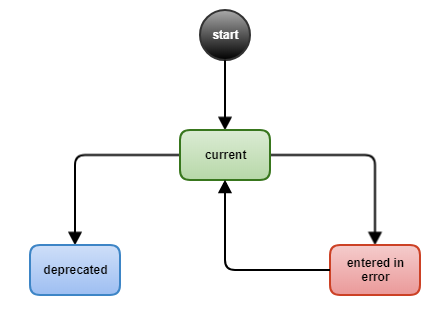
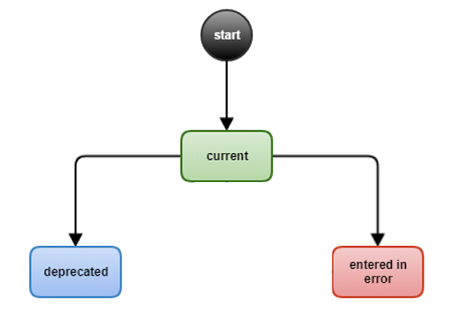
Updated Pointer Lifecycle page

diff --git a/pages/pointers/pointer_lifecycle.md b/pages/pointers/pointer_lifecycle.md
@@ -9,42 +9,18 @@ summary: NRLS Pointer Lifecycle
 
 {% include important.html content="This site is under active development by NHS Digital and is intended to provide all the technical resources you need to successfully develop the NRLS API. This project is being developed using an agile methodology so iterative updates to content will be added on a regular basis." %}
 
-{% include warning.html content="
-The current version of the NRLS API does not give Providers the ability to update the properties of an existing Pointer. 
-The only property that can be modified is the status and that is done in a very specific way only allowing a Provider to replace one 
-pointer with another [Managing Pointers](pointer_maintenance.html#managing-pointers-to-static-content).
-<br/>
-This means that a number of scenarios outlined below around updating a Pointer can not yet be achieved though the NRLS intends to support these features in a future release. 
-<br/>
-Specifically the NRLS API does not currently support- <br/>
-
-- The following status property transitions:<br/>
-
-	&emsp; o **current** to **entered-in-error**<br/>
-	&emsp; o **entered-in-error** to **current**<br/>
-	&emsp; o **current** to **superseded** where the current Pointer is not being replaced.<br/>
-	
-- Modification of other properties<br/>
-" %}
-
-
 ## Pointer Lifecycle ##
 
-A Pointer is a reference to some content. From the perspective of NRLS that content is held on a remote system. 
-It has its own lifecycle that is managed by a third-party (the Record owner). The state of the Pointer should reflect the 
-state of the referenced content so that Consumers are able to make informed decisions around whether or not a Pointer is worth 
-following or given the choice of more than one Pointer which is the most appropriate to follow.
+A Pointer is a reference to some content. From the perspective of NRLS that content is held on a remote system. It has its own lifecycle that is managed by a third-party (the Record owner). The Pointer Lifecycle as described by NRL defines the statuses and permitted transitions between those statuses for the pointer. The statuses and transitions ensure that only the appropriate pointers are shown to Consumers. 
 
 ## Pointer Status ##
 
-The Pointer has the concept of a status. It can have one of three possible values - 
-- Current - The status provide a means for a Consumer to understand whether the Pointer references the “current” Record. The definition of “current” is under the control of the Provider but a Consumer should be confident that by selecting the latest Pointer they will be presented with what the Provider considers to be the most appropriate for Consumers to use. 
-- Superseded – This is an overloaded term in NRLS. It can have one of two meanings:
-	1. Indicates that this Pointer has been replaced by another. Consumers should be aware that there is another 
-	Pointer referencing a more [current content](pointer_maintenance.html#managing-pointers-to-static-content).
-	2. Indicates that this Pointer has been deprecated but has not been replaced by another DocumentReference. 
-	There is no newer Pointer or content that can be retrieved but the use of this Pointer and its content is discouraged. See [Status transition](#pointer-status-transition-worked-examples) for more information.
-- Entered-in-error – Indicates that the Pointer should not really have been entered into the NRLS however in keeping with the principle of deleting only by exception [link to principles](overview_principles.html) this status allows a Provider to mark a Pointer as erroneous without needing to delete it.
+The Pointer has the concept of a status. It can have one of three possible values: 
+- "current" - Indicates that the Pointer references a clinically relevant record. The definition of “current” is under the control of the Provider but a Consumer should be confident that by selecting the Pointer they will be presented with a document or record that the Provider considers to be appropriate for Consumers to use.
+- "superseded" – Indicates that this Pointer has been replaced by another. This could be a Pointer with updated meta-data or an updated reference to a document. Note that this represents the status of the pointer and does not necessarily indicate a previous version of a document.  
+- "entered-in-error" – Indicates that the Pointer should not have been entered into the NRL as it is not valid. This could be for a number of reasons, including errors on either the pointer meta-data or the document itself. This status allows a Provider to mark a Pointer as erroneous without needing to delete it.
+
+Only pointers with the status of “current” are made available to Consumers. The statuses “superseded” and “entered-in-error” are in use in the Pointer Lifecycle for pointer management and auditing purposes. 
 
 ## Pointer status: legal transitions ##
 
@@ -54,12 +30,9 @@ Not only is the value of a Pointer’s status constrained but the transition fro
 
 ***Fig 1: status transitions: The NRLS controls that transition from one status to another. It is not possible to transition from one to all states.***
 
-All Pointers begin life with a status of current. From there it is possible to move into a deprecated state or to an entered-in-error state.
+All Pointers begin life with a status of current. From there it is possible to move into a superseded state or to an entered-in-error state.
 
-Once in a deprecated state the Pointer cannot transition anywhere else. From the entered-in-error state the Pointer can move back to current. 
-One cannot build a chain of Pointers on top of a Pointer whose status is entered-in-error. Only the current Pointer can be used in this 
-way by superseding it and replacing it with a new version that becomes the current Pointer. See the Pointer status transition: 
-worked examples section that details how to the NRLS allows a Provider to transition the status of their Pointers.
+Once in a superseded state, or an entered-in-error state, the Pointer cannot transition anywhere else. One cannot build a chain of Pointers on top of a Pointer whose status is entered-in-error, or a Pointer which has already been superseded. Only the current Pointer can be used in this way by superseding it and replacing it with a new version that becomes the current Pointer. See the Pointer status transition: worked examples section that details how to the NRLS allows a Provider to transition the status of their Pointers.
 
 ## Pointer status: making transitions ##
 
@@ -73,7 +46,7 @@ of the create and update actions.***
 
 One transition that is worth expanding on is the transition from current to superseded. In this case the existing Pointer (P1) whose status is current is to be replaced or superseded by a new Pointer (P2) which will become the current Pointer and P1 will become superseded. 
 
-In order to supersede there must always be a replacement. Therefore to ensure the transactional integrity of this activity which spans 
+In order to supersede there must always be a replacement. Therefore, to ensure the transactional integrity of this activity which spans 
 two Pointers (P1 and P2 in our example) the action is wrapped up into the CREATE of P2. More details on the mechanics of this are provided 
 in the section named Managing Pointers to static content below.
 
@@ -100,16 +73,7 @@ information regarding my resource.
 
 As part of the CREATE of the new Pointer that will replace the existing one the Provider describes the relationship between the 
 new and existing Pointer. The NRLS uses this relationship to create a new Pointer marking it as current and to deprecate the existing 
-Pointer marking it as superseded and also modifying its version to reflect the change to that Pointer.
-
-***Current to Superseded (deprecated)***
-
-As a Provider I want to mark one of my existing pointers as superseded to discourage its use. 
-In this case I do not have anything to replace that Pointer with.
-
-<img src="images/pointers/pointer_transitions8.png">
-
-The Provider must UPDATE the existing resource changing its status from current to superseded. In doing so the NRLS will modify its version to reflect the change to that Pointer.
+Pointer marking it as superseded and modifying its version to reflect the change to that Pointer.
 
 ***Current to Entered in error***
 
@@ -120,29 +84,5 @@ on the Pointer or the resource that it references.
 
 The Provider must UPDATE the existing resource changing its status from current to entered-in-error. In doing so the NRLS will modify its version to reflect the change to that Pointer.
 
-
-***Entered in error to Current***
-
-As a Provider I want to revert an existing Pointer from entered in error to current so that Consumers know that the 
-Pointer and its referenced resource can be used in clinical decision making processes. 
-
-<img src="images/pointers/pointer_transitions6.png">
-
-The Provider must UPDATE the existing resource changing its status from entered-in-error to current. 
-In doing so the NRLS will modify its version to reflect the change to that Pointer.
-
-***Entered in error to Superseded***
-
-As a Provider I want to transition a Pointer from entered-in-error to superseded so that Consumers know that the Pointer 
-and its referenced resource can be used in clinical decision making processes but that there is a newer Pointer available that 
-holds more up to date information. 
-
-<img src="images/pointers/pointer_transitions7.png">
-
-In order to make this transition the Provider must invoke two separate actions on the NRLS. 
-The first is to UPDATE the entered-in-error Pointer marking it as current. Without this the next step will not be possible. 
-Step two is to CREATE a new Pointer and as part of that supersede the existing Pointer. 
-This scenario is really a combination of the Entered in error to current and current to superseded scenarios detailed earlier. 
-Note also how the version number of the existing Pointer changes as its status transitions from entered-in-error to current to superseded. 
 
 
